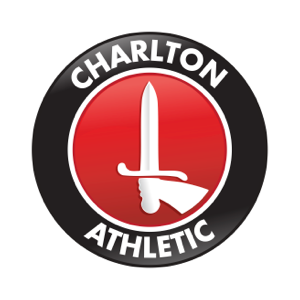
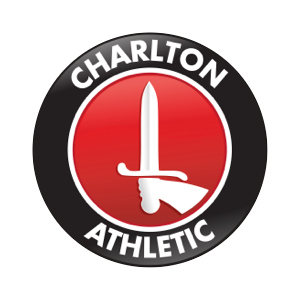
Drop the white around badges and centre the sidebar crest
The crest PNG carried a white rim outside its black ring, and the
masthead, login, sidebar and Team Overview badges each added a white
disc and ring on top. Trim the rim from the image (everything beyond the
ring's outer edge made transparent, anti-aliased) and replace the white
frames with a soft drop shadow that follows the badge's own outline.

Centre the crest in the sidebar header: hide Streamlit's logo spacer,
which pushed it left, and lay the collapse button over the right edge.

diff --git a/utils/ui.py b/utils/ui.py
@@ -165,11 +165,15 @@ THEME_CSS = """
     padding-bottom: 4rem;
 }
 [data-testid="stSidebar"] { border-right: 0; }
-[data-testid="stSidebarHeader"] { padding-top: 20px; padding-bottom: 8px; }
+/* Crest centred in the sidebar header; the collapse button sits on top at the right. */
+[data-testid="stSidebarHeader"] {
+    position: relative; justify-content: center; padding-top: 22px; padding-bottom: 10px;
+}
+[data-testid="stLogoSpacer"] { display: none; }
+[data-testid="stSidebarCollapseButton"] { position: absolute; right: 10px; top: 14px; }
 [data-testid="stSidebarHeader"] img[data-testid="stSidebarLogo"], [data-testid="stSidebarHeader"] img {
-    height: 64px !important; max-height: 64px !important; width: auto;
-    border-radius: 50%; background: #fff;
-    box-shadow: 0 0 0 2px rgb(255 255 255 / 85%), 0 4px 14px rgb(0 0 0 / 45%);
+    height: 72px !important; max-height: 72px !important; width: auto;
+    filter: drop-shadow(0 4px 10px rgb(0 0 0 / 45%));
 }
 [data-testid="stSidebarNav"] a { border-radius: 8px; }
 [data-testid="stSidebarNav"] a[aria-current="page"] { background: var(--red); }
@@ -197,8 +201,8 @@ THEME_CSS = """
 }
 .cafc-brand { display: flex; align-items: center; gap: 20px; min-width: 0; }
 .cafc-badge {
-    width: 84px; height: 84px; flex: none; border-radius: 50%; background: #fff;
-    box-shadow: 0 0 0 3px rgb(255 255 255 / 90%), 0 6px 18px rgb(0 0 0 / 35%);
+    width: 84px; height: 84px; flex: none; object-fit: contain;
+    filter: drop-shadow(0 6px 14px rgb(0 0 0 / 35%));
 }
 .cafc-eyebrow {
     margin: 0 0 6px; font: 600 12px/1 var(--body);

diff --git a/views/team_overview.py b/views/team_overview.py
@@ -119,14 +119,11 @@ def _inject_css() -> None:
         }
         .to-team-block { align-items: center; display: flex; gap: 18px; min-width: 0; }
         .to-badge {
-            background: #fff;
-            border-radius: 50%;
-            box-shadow: 0 0 0 3px rgb(255 255 255 / 90%), 0 6px 18px rgb(0 0 0 / 35%);
             display: inline-grid;
+            filter: drop-shadow(0 6px 14px rgb(0 0 0 / 35%));
             flex: 0 0 auto;
             height: 88px;
             object-fit: contain;
-            padding: 8px;
             place-items: center;
             width: 88px;
         }

diff --git a/app.py b/app.py
@@ -86,9 +86,8 @@ def require_cafc_login() -> None:
             width: 88px;
             height: 88px;
             margin-bottom: 14px;
-            border-radius: 50%;
-            background: #ffffff;
-            box-shadow: 0 0 0 3px rgb(255 255 255 / 90%), 0 6px 18px rgb(0 0 0 / 35%);
+            object-fit: contain;
+            filter: drop-shadow(0 6px 14px rgb(0 0 0 / 35%));
         }
         .cafc-login-eyebrow {
             font-size: 12px;
